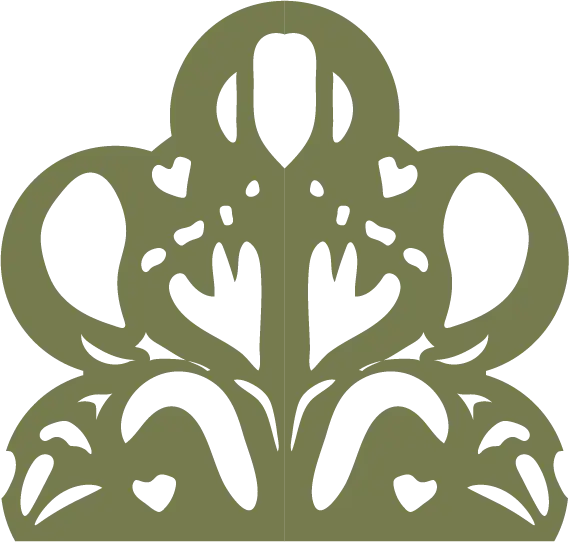
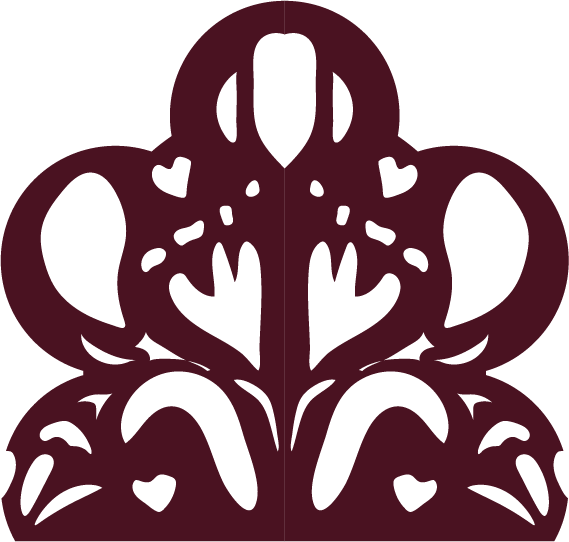
frat: agregando modificaciones

diff --git a/src/styles/theme.css b/src/styles/theme.css
@@ -141,29 +141,27 @@ body {
   padding-bottom: 38px;
 }
 
-/* SEPARADORES SUTILES ENTRE SECCIONES */
-.ribbon-deco,
-.ribbon-dd {
-  width: 70%;
-  max-width: 220px;
-  height: 1px;
+/* TIRAS / RIBBONS DECORATIVAS ENTRE SECCIONES */
+.ribbon-deco {
+  width: 100%;
+  height: 20px;
+  background-image: url('/invitard_wedding_roxana_ruben_2026-10-31/assets/wp-content/uploads/2026/07/MICHELLE-MARCO-DECO.webp');
+  background-repeat: repeat-x;
+  background-size: contain;
+  background-position: center;
   margin: 22px auto;
-  background: linear-gradient(90deg, transparent, rgba(74, 18, 33, 0.22), transparent);
-  position: relative;
+  opacity: 0.95;
 }
 
-.ribbon-deco::after,
-.ribbon-dd::after {
-  content: "";
-  position: absolute;
-  top: -2.5px;
-  left: 50%;
-  transform: translateX(-50%);
-  width: 5px;
-  height: 5px;
-  border-radius: 50%;
-  background-color: var(--color-primary);
-  opacity: 0.6;
+.ribbon-dd {
+  width: 100%;
+  height: 20px;
+  background-image: url('/invitard_wedding_roxana_ruben_2026-10-31/assets/wp-content/uploads/2026/07/MICHELLE-MARCO-dd.webp');
+  background-repeat: repeat-x;
+  background-size: contain;
+  background-position: center;
+  margin: 22px auto;
+  opacity: 0.95;
 }
 
 /* Dividers */
@@ -197,6 +195,16 @@ body {
 }
 
 /* Typography Helpers */
+.couple-amp {
+  font-family: var(--font-heading) !important;
+  font-size: 0.65em;
+  font-weight: 500;
+  margin: 0 6px;
+  vertical-align: middle;
+  display: inline-block;
+  line-height: 1;
+}
+
 .title-script {
   font-family: var(--font-script);
   font-weight: normal;
